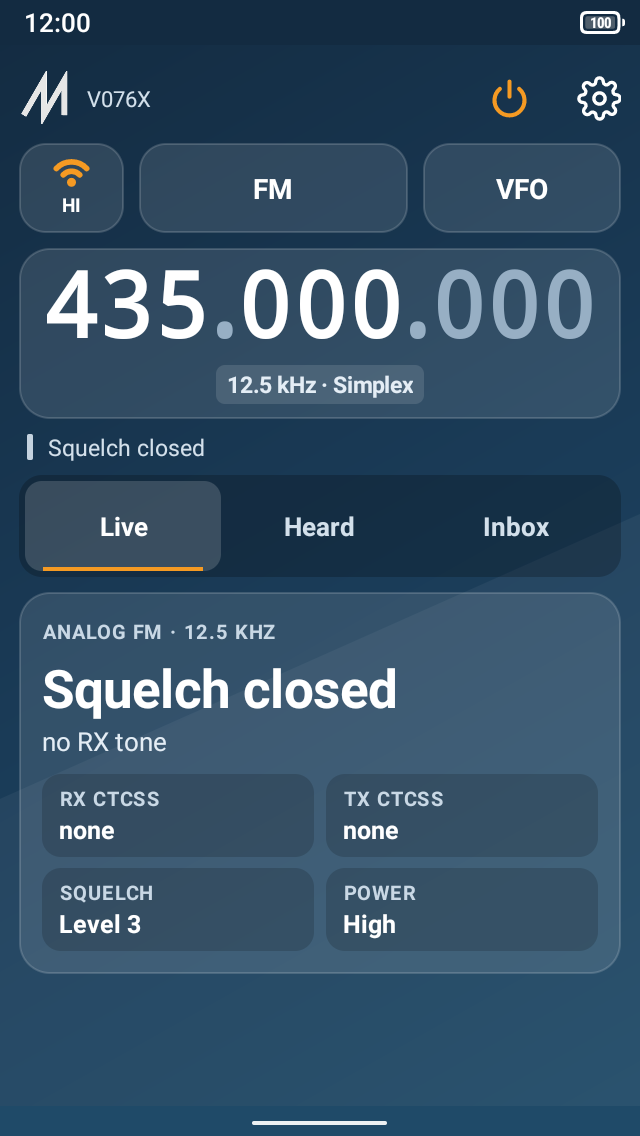
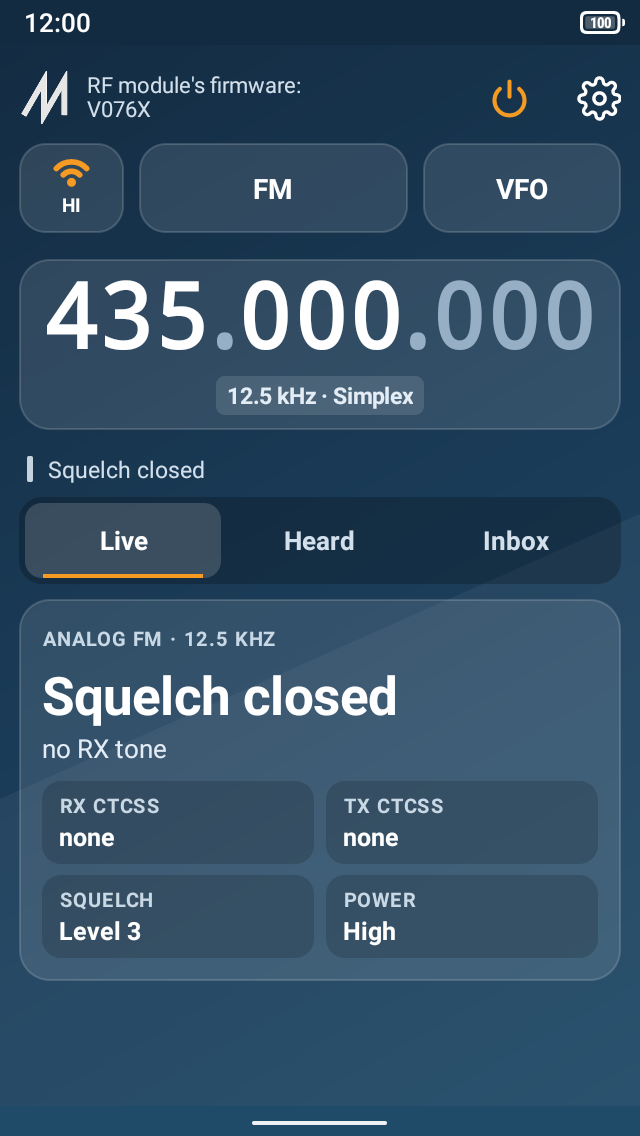
Main screen: the firmware labelled, more air around the frequency
- The header's "V076X" alone was cryptic. It reads "RF module's
  firmware:" above the version now, the two lines as high as the logo
  (no font padding, a little tighter).
- More space above the frequency window (14 dp after the toggles) and
  below it (6 dp more before the status line). The channel chip stays
  close under the digits, inside the window.
- The Live / Heard / Inbox tabs are 40 dp high instead of 48: they are
  wide enough to hit.
- The README's main screen shots show this layout.

diff --git a/app/src/main/java/org/m17project/atomxl/MainActivity.java b/app/src/main/java/org/m17project/atomxl/MainActivity.java
@@ -648,7 +648,7 @@ public final class MainActivity extends Activity implements Station.Listener {
         String s;
         if (st.isFlashing()) s = "Loading firmware…";
         else if (st.isStarting()) s = "Starting the radio…";
-        else if (st.isOpen()) s = st.moduleTag().replace("DMR006.U4A.", "")     // the mode is on its button, the bridge build in the log
+        else if (st.isOpen()) s = "RF module's firmware:\n" + st.moduleTag().replace("DMR006.U4A.", "")   // the mode is on its button
                 + (m17 && !st.m17TxCapable() ? " \u00b7 M17 receive only" : "");
         else s = st.error().isEmpty() ? "" : "Start failed: " + st.error();      // "Radio off" is on the Live card already
         status.setText(s);
